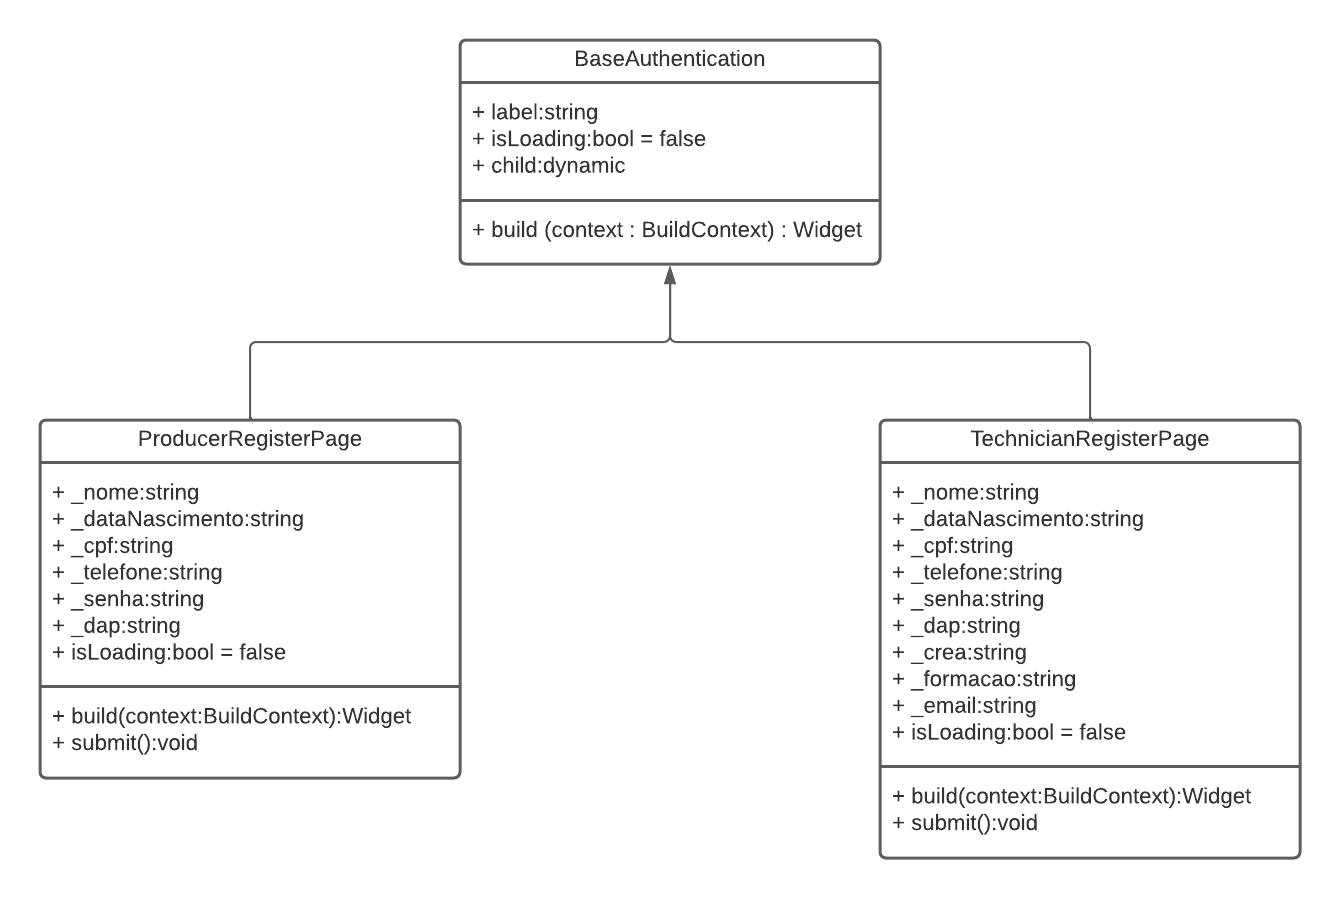
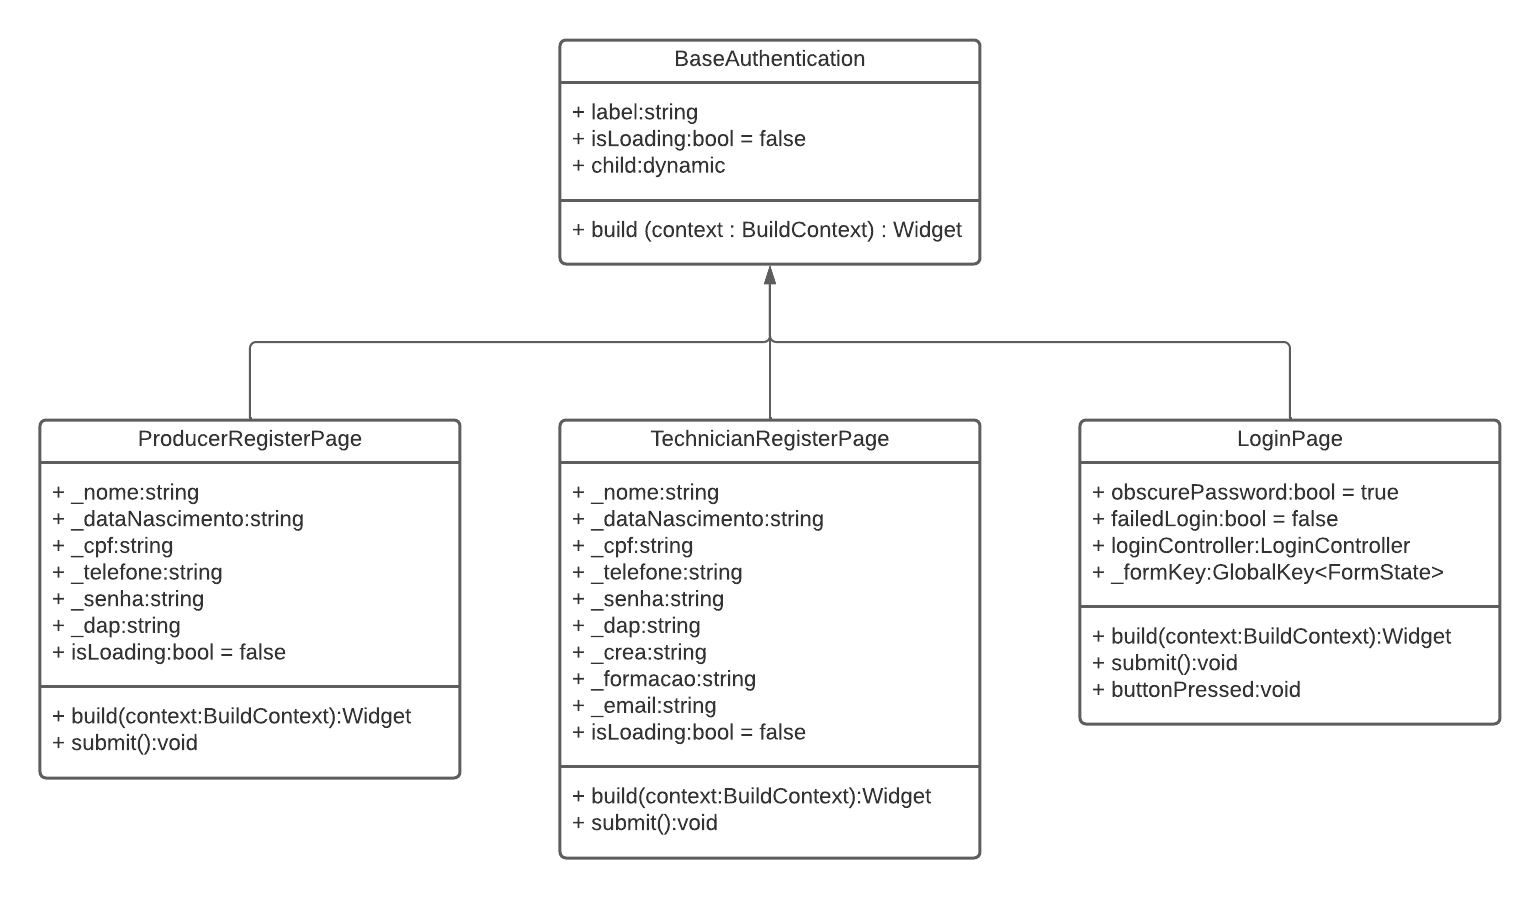
(#127) Adicionando pagina de login ao decorator

diff --git a/docs/padroes_projetos/aplicacao/gofs_estruturais.md b/docs/padroes_projetos/aplicacao/gofs_estruturais.md
@@ -44,7 +44,7 @@
 
 <p align="justify" style="text-indent: 20px">Este conceito se encaixa bastante no contexto do frontend, pois o framework flutter permite que o usuário crie widgets personalizados que podem agregar outros widgets dentro dele. Fazendo com que um widget sirva de decorado e os demais que serão acrescentados a eles sejam os decoradores.</p>
 
-<p align="justify" style="text-indent: 20px">Conforme o protótipo existem, duas telas que teriam basicamente a mesma base, sendo elas a tela de cadastro de técnico e de produtor. Às duas telas possuem um fundo branco, com os mesmos detalhes azuis no topo e no rodapé da tela, além de um titulo branco, com a mesma fonte de tamanho. Então o componente BaseAuthentication foi criado para que cada tela utilize-o como base e decore com os widget que as caracterizam.</p>
+<p align="justify" style="text-indent: 20px">Conforme o protótipo, existem três telas que teriam basicamente a mesma base, sendo elas a tela de login e as telas de cadastro de técnico e produtor. Às três telas possuem um fundo branco, com os mesmos detalhes azuis no topo e no rodapé da tela, além de um titulo branco, com a mesma fonte de tamanho. Então o componente BaseAuthentication foi criado para que cada tela utilize-o como base e decore com os widget que as caracterizam.</p>
 
 #### 4.2.1 Modelagem
 
@@ -71,5 +71,11 @@
 <center>
   <img src="../../../assets/padroes_projetos/decorator_technician_register.png" width="800" class="zoom"/>
   <h6 align = "center">Figura 6: Classe decoradora para pagina de cadastro de técnico</h6>
+  <h6 align = "center">Fonte: Autores</h6>
+</center>
+
+<center>
+  <img src="../../../assets/padroes_projetos/decorator_login_page.png" width="800" class="zoom"/>
+  <h6 align = "center">Figura 7: Classe decoradora para pagina de logino</h6>
   <h6 align = "center">Fonte: Autores</h6>
 </center>
